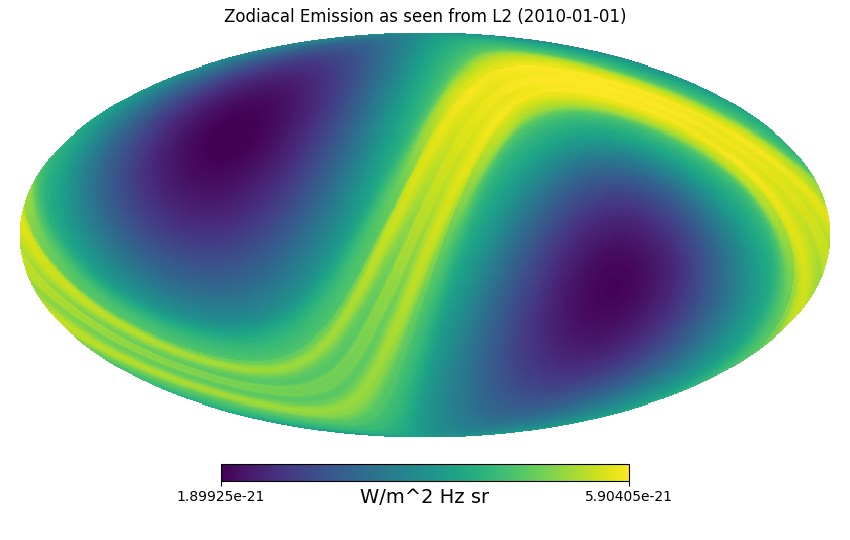
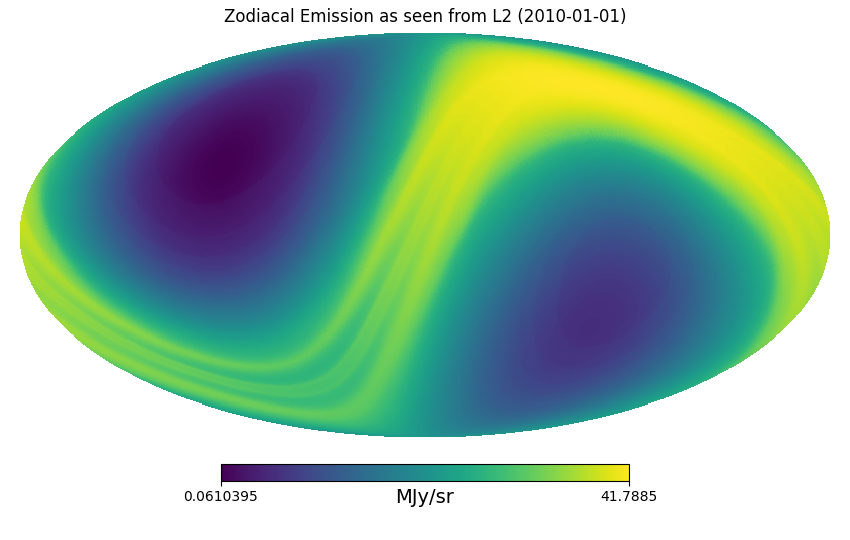
Update README

diff --git a/zodipy/zodi.py b/zodipy/zodi.py
@@ -1,3 +1,4 @@
+from collections.abc import Iterable
 from typing import Optional, Union, Iterable
 from datetime import datetime
 
@@ -20,7 +21,7 @@ class Zodi:
     def __init__(
         self, 
         observer : Optional[str] = 'L2',
-        observation_times : Optional[Iterable[datetime]] = None,
+        observation_times : Optional[Union[Iterable[datetime], datetime]] = None,
         model : Optional[models.InterplanetaryDustModel] = models.PLANCK_2018,
         integration_config : Optional[integ.IntegrationConfig] = integ.DEFAULT,
     ) -> None:
@@ -48,6 +49,8 @@ class Zodi:
 
         if observation_times is None:
             observation_times = [datetime.now().date]
+        elif not isinstance(observation_times, Iterable): 
+            observation_times = [observation_times]
 
         observer_locations = [
             coords.get_target_coordinates(observer, time) 

diff --git a/README.md b/README.md
@@ -1,25 +1,17 @@
 # Zodipy
 
 ## Description
-Zodipy is a python tool that simulates the instantaneous Zodiacal emission as seen from an observer.
+Zodipy is a python tool that simulates the instantaneous Zodiacal emission as seen by an observer.
 
 ## Usage
-The following will produce a HEALPIX map at `NSIDE=128` of the simulated
-emission as seen by the Planck satellite today
+The following will produce a HEALPIX map of the simulated Zodiacal emission at
+800 GHz as seen from L2 at 2010-01-01
 ```python
 import zodipy
+from datetime import datetime
 
-zodi = zodipy.Zodi(observer='Planck')
-emission = zodi.simulate(nside=256, freq=800)
-```
-
-The time of observation is defined as following
-```python
-import datetime
-
-time = datetime(2010, 1, 1)
-zodi = zodipy.Zodi(observer='L2', observation_time=time)
-emission = zodi.simulate(nside=256, freq=800)
+zodi = zodipy.Zodi('L2', datetime(2010, 1, 1))
+emission = zodi.get_emission(nside=128, freq=800)
 ```
 
 The simulated emission can be visualized using Healpy and matplotlib
@@ -30,7 +22,7 @@ import matplotlib.pyplot as plt
 hp.mollview(
     emission, 
     norm='hist', 
-    unit='W/m^2 Hz sr', 
+    unit='MJy/sr', 
     title='Zodiacal Emission as seen from L2 (2010-01-01)', 
 )
 plt.show()
